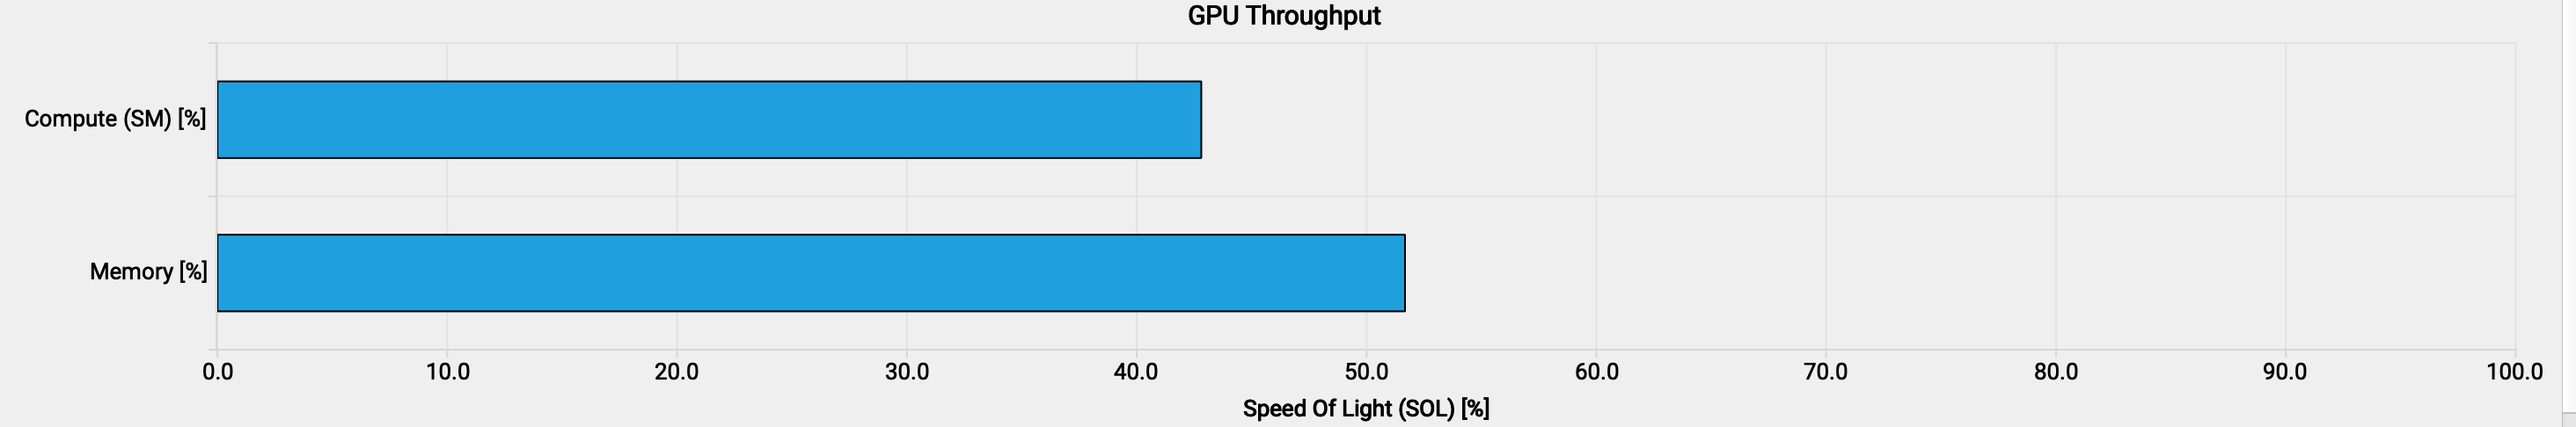
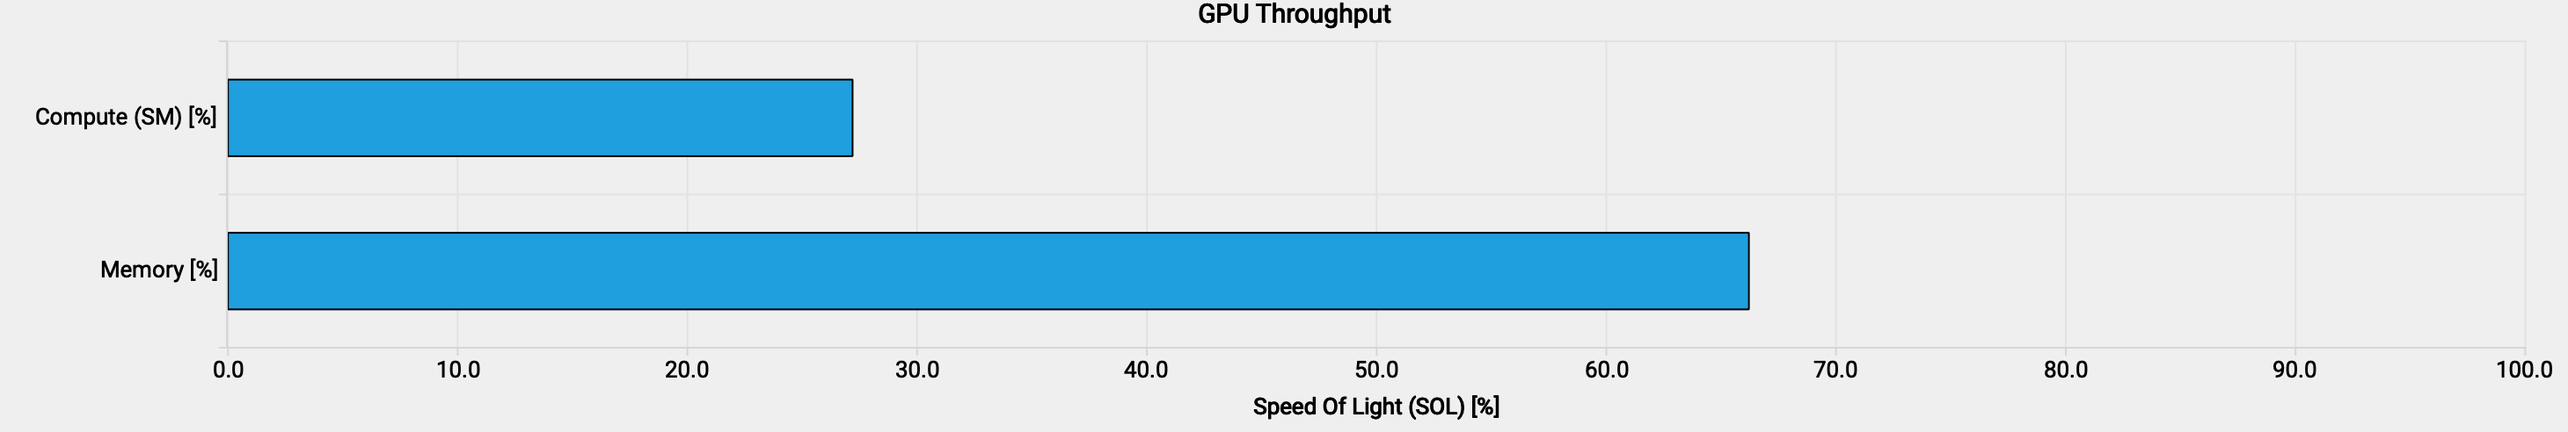
feat: updates

diff --git a/page/dist/projects/paperviewer.html b/page/dist/projects/paperviewer.html
@@ -62,29 +62,28 @@
 
 
 
-<body class="latex-dark">
+<body>
     <!-- <div class="full-width-banner">
         This article is a <i>Work in Progress</i>. Content may be incomplete or subject to change.
     </div> -->
 
 
-    <button id="dark-mode-toggle">Light Mode</button>
+    <button id="dark-mode-toggle">Dark Mode</button>
     <script>
         const toggleButton = document.querySelector("#dark-mode-toggle");
-        // Set initial dark mode button style
-        toggleButton.style.backgroundColor = "#565656";
-        toggleButton.style.color = "white";
-        
+        toggleButton.style.backgroundColor = "#e0e0e0";
+        toggleButton.style.color = "#333";
+
         toggleButton.addEventListener('click', () => {
             document.body.classList.toggle("latex-dark");
-            if (toggleButton.textContent == "Light Mode") {
-                toggleButton.textContent = "Dark Mode";
-                toggleButton.style.backgroundColor = "#e0e0e0";
-                toggleButton.style.color = "#333";
-            } else {
+            if (toggleButton.textContent == "Dark Mode") {
                 toggleButton.textContent = "Light Mode";
                 toggleButton.style.backgroundColor = "#565656";
                 toggleButton.style.color = "white";
+            } else {
+                toggleButton.textContent = "Dark Mode";
+                toggleButton.style.backgroundColor = "#e0e0e0";
+                toggleButton.style.color = "#333";
             }
         });
     </script>

diff --git a/page/public/projects/sglang-bottlenecks.html b/page/public/projects/sglang-bottlenecks.html
@@ -471,14 +471,11 @@ Memory ≈ 2 · (K·N + M·K) bytes BF16  — weight term dominates when M ≪ K
             </details>
 
             <p>
-                Nsight Compute confirms that the memory bandwidth throughput is lower than the compute throughput.
-                The predicted compute% (32%) vs observed (42%) gap is explained by L2 cache hits on the activation
-                matrix: [64, 4096] BF16 = 512 KB fits entirely in A100's 40 MB L2, so not all reads hit HBM, raising
-                the effective AI slightly above 64 F/B.
-                Memory throughput being "only" 51% can be explained with the 3-stage software pipeline in the
-                kernel (stages_64x3) thatoverlaps memory loads with tensor core math, so neither resource is fully
-                stalled
-                waiting for the other.
+                Nsight Compute confirms that the memory bandwidth throughput is much lower than the compute throughput.
+                Memory throughput being still "only" 66% can be explained with the 3-stage matrix multiplication
+                pipeline in
+                the kernel (stages_64x3) that overlaps memory loads with tensor core math, so neither resource is fully
+                stalled waiting for the other.
             </p>
             <figure>
                 <img src="sglang_bottlenecks/nsight_compute_gemm_bf16.png" alt="Nsight Compute — BF16 GEMM roofline"

diff --git a/page/dist/index.html b/page/dist/index.html
@@ -22,7 +22,7 @@
             <div class="container">
                 <footer>
                     <p>Reach out to me on <a href="https://www.linkedin.com/in/davencyw/">LinkedIn</a> or send me
-                        an <a href="mailto:david@Blum.net">email</a>.</p>
+                        an <a href="mailto:david@schmidig.net">email</a>.</p>
                 </footer>
                 <!-- <footer-left>
                     <p><a href="about.html">About</a></p>
@@ -133,8 +133,8 @@
                                     </div>
                                     <div class="project-card-info">
                                         <span class="project-card-date">Mar 2026 — WIP</span>
-                                        <span class="project-card-title">Uncovering and Resolving Bottlenecks in
-                                            SGLang</span>
+                                        <span class="project-card-title">Uncovering and Resolving Bottlenecks for Llama
+                                            3 in SGLang</span>
                                     </div>
                                 </a>
 
